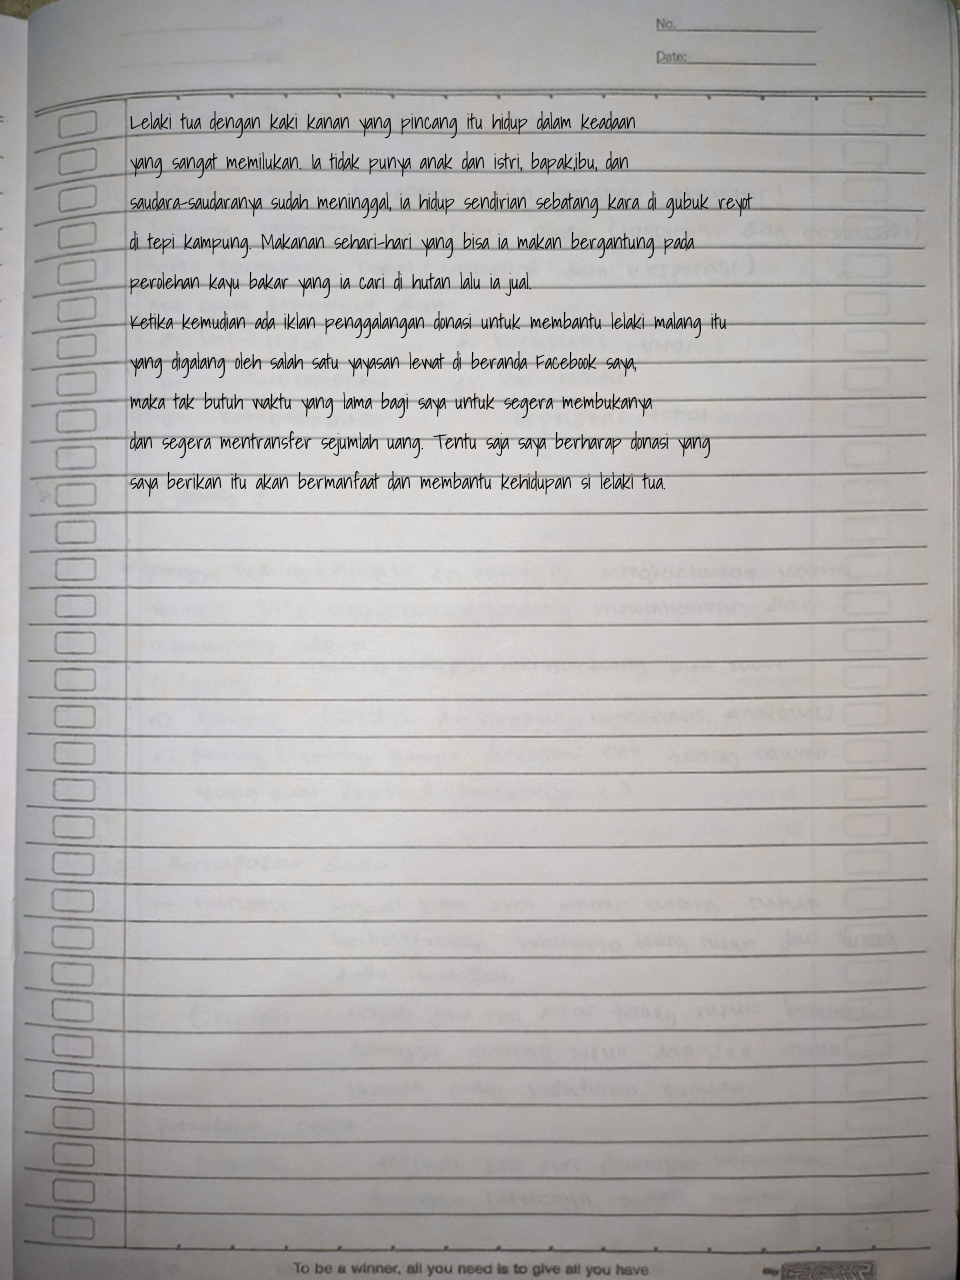
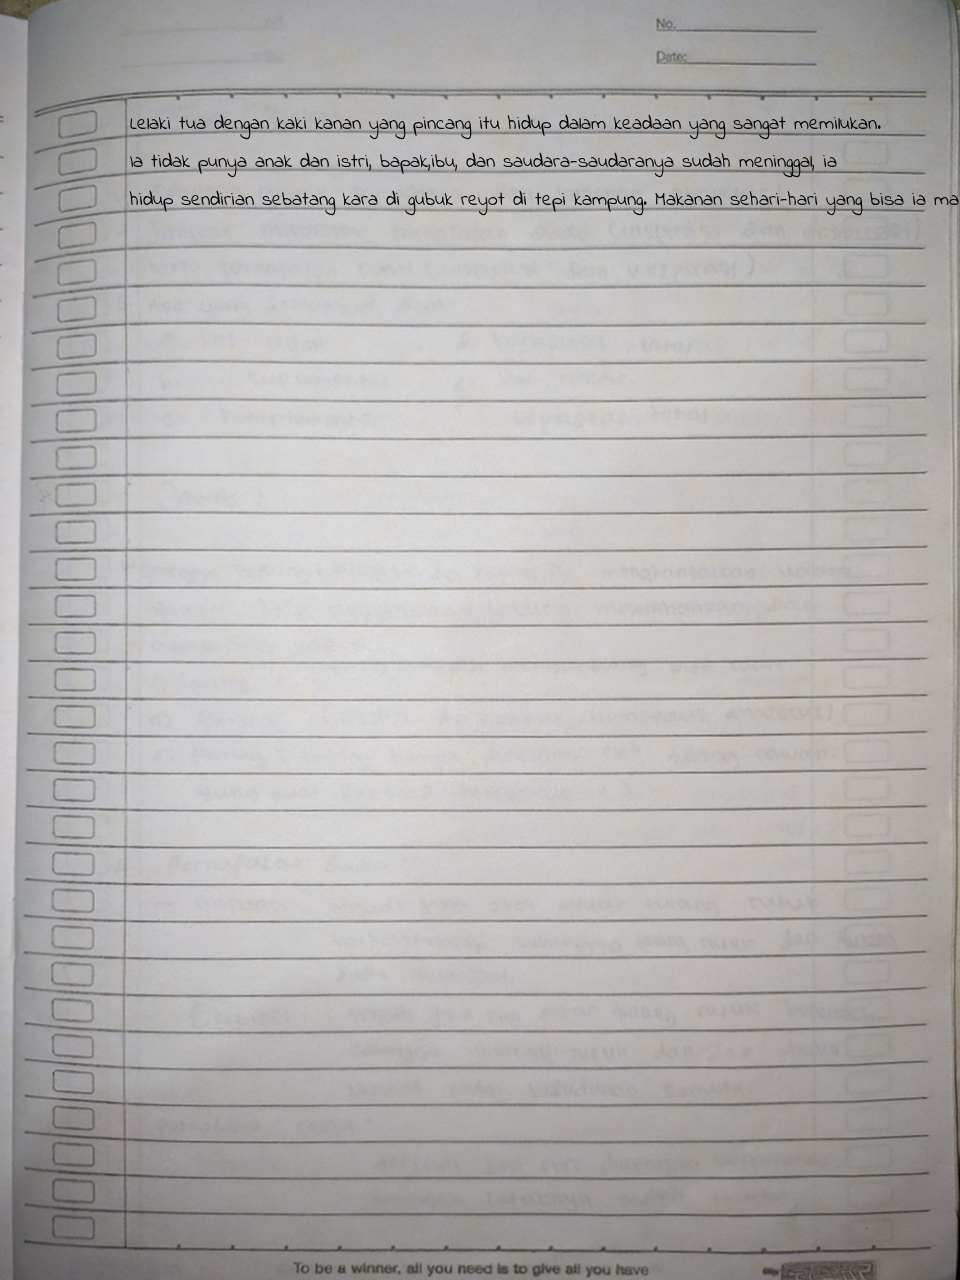
fixing bugg

Changed region(s): [[0.125, 0.0938, 0.8438, 0.4062], [0.6562, 0.25, 0.75, 0.2812], [0.8438, 0.0938, 0.9062, 0.125]]

diff --git a/tes.js b/tes.js
@@ -45,16 +45,140 @@ const {exec} = require('child_process');
 // })();
 // return
 
+// SPLIT TEXT
+(async () => {
+  let longMessage = 'Lelaki tua dengan kaki kanan yang pincang itu hidup dalam keadaan yang sangat memilukan. Ia tidak punya anak dan istri, bapak,ibu, dan saudara-saudaranya sudah meninggal, ia hidup sendirian sebatang kara di gubuk reyot di tepi kampung. Makanan sehari-hari yang bisa ia makan bergantung pada perolehan kayu bakar yang ia cari di hutan lalu ia jual. Ketika kemudian ada iklan penggalangan donasi untuk membantu lelaki malang itu yang digalang oleh salah satu yayasan lewat di beranda Facebook saya, maka tak butuh waktu yang lama bagi saya untuk segera membukanya dan segera mentransfer sejumlah uang. Tentu saja saya berharap donasi yang saya berikan itu akan bermanfaat dan membantu kehidupan si lelaki tua.',
+  charLimit = 85,
+  maxSplits = 30,
+  placeholder,
+  indicator,
+  breakPoint,
+  messages = [],
+  n,
+  m,
+  splits,
+  
+  totN = 0,
+  newarrayyy = [],
+  kal = "",
+  baris = 0,
+  diagX = 129;
+
+  const font = ['nulisa']
+  const ran = Math.floor(Math.random() * font.length)
+  // const fixHeight = text
+  const pathbef = './src/gambar/nulisbukusebelumkanan.jpg'
+  const pathres = './public/nulisbukukanan.jpg'
+
+  let arrNew = longMessage.split(" ")
+  for (let index = 0; index < arrNew.length; index++) {
+    totN += arrNew[index].length
+    if(65 < totN){
+      tesP = totN + arrNew[index + 1].length
+      if(tesP > 79){
+
+      }
+      baris++
+      console.log(baris, kal)
+      if(baris == 1){
+        spawn('convert', [
+          pathbef,
+          '-font',
+          `./src/font/${font[ran]}.ttf`,
+          '-size',
+          '960x1280',
+          '-pointsize',
+          '20',
+          '-annotate',
+          `+130+${diagX}`,
+          kal,
+          pathres
+        ])
+        .on('error', (e) => console.log(e.message))
+        .on('exit', () => console.log("baris ke " + baris))
+      } else {
+        diagX += 38
+        spawn('convert', [
+          pathres,
+          '-font',
+          `./src/font/${font[ran]}.ttf`,
+          '-size',
+          '960x1280',
+          '-pointsize',
+          '20',
+          '-annotate',
+          `+130+${diagX}`,
+          kal,
+          pathres
+        ])
+        .on('error', (e) => console.log(e.message))
+        .on('exit', () => console.log("baris ke " + baris))
+      }
+      totN = 0
+      kal = arrNew[index] + " "
+      await new Promise(r => setTimeout(r, 500));
+    } else {
+      kal += arrNew[index] + " "
+    }
+  }
+  console.log(++baris, kal)
+  spawn('convert', [
+    pathres,
+    '-font',
+    `./src/font/${font[ran]}.ttf`,
+    '-size',
+    '960x1280',
+    '-pointsize',
+    '20',
+    '-annotate',
+    `+130+${diagX += 38}`,
+    kal,
+    pathres
+  ])
+  .on('error', (e) => console.log(e.message))
+  .on('exit', () => console.log("baris ke " + baris))
+})()
+
+
+
+// var totalLength = longMessage.length + (9 * 5);
+
+// if (totalLength <= (charLimit * 9)) {
+//     placeholder = '\v';
+// }
+// else {
+//     placeholder = '\v\v';
+// }
+
+// for (n = 0, m = 0; n < longMessage.length / charLimit && n < maxSplits; n++) {
+//     m = n * charLimit;
+//     indicator = '\n';
+//     breakPoint = m + charLimit - indicator.length;
+//     longMessage = longMessage.substring(0, breakPoint) + indicator + longMessage.substring(breakPoint);
+// }
+
+// longMessage = longMessage.replace(/\v+/g, n);
+
+// splits = n;
+
+// for (n = 0; n < splits; n++) {
+//     m = n * charLimit;
+//     messages.push(longMessage.substring(m, m + charLimit));
+// }
+
+// // spit out each message
+//     console.log(messages)
+
 // NULIS
-const { nulis } = require("./lib/nulis")
+// const { nulis } = require("./lib/nulis")
 
-const mes = "-no 43 -kls XI IPA 2 -t Lelaki tua dengan kaki kanan yang pincang itu hidup dalam keadaan yang sangat memilukan. Ia tidak punya anak dan istri, bapak,ibu, dan saudara-saudaranya sudah meninggal, ia hidup sendirian sebatang kara di gubuk reyot di tepi kampung. Makanan sehari-hari yang bisa ia makan bergantung pada perolehan kayu bakar yang ia cari di hutan lalu ia jual. Ketika kemudian ada iklan penggalangan donasi untuk membantu lelaki malang itu yang digalang oleh salah satu yayasan lewat di beranda Facebook saya, maka tak butuh waktu yang lama bagi saya untuk segera membukanya dan segera mentransfer sejumlah uang. Tentu saja saya berharap donasi yang saya berikan itu akan bermanfaat dan membantu kehidupan si lelaki tua."
+// const mes = "-no 43 -kls XI IPA 2 -t Lelaki tua dengan kaki kanan yang pincang itu hidup dalam keadaan yang sangat memilukan. Ia tidak punya anak dan istri, bapak,ibu, dan saudara-saudaranya sudah meninggal, ia hidup sendirian sebatang kara di gubuk reyot di tepi kampung. Makanan sehari-hari yang bisa ia makan bergantung pada perolehan kayu bakar yang ia cari di hutan lalu ia jual. Ketika kemudian ada iklan penggalangan donasi untuk membantu lelaki malang itu yang digalang oleh salah satu yayasan lewat di beranda Facebook saya, maka tak butuh waktu yang lama bagi saya untuk segera membukanya dan segera mentransfer sejumlah uang. Tentu saja saya berharap donasi yang saya berikan itu akan bermanfaat dan membantu kehidupan si lelaki tua."
 
-const args = mes.split(" ")
+// const args = mes.split(" ")
 
-nulis(args).then(async(res) => {
- console.log(res)
-}).catch((e) => console.log(e))
+// nulis(args).then(async(res) => {
+//  console.log(res)
+// }).catch((e) => console.log(e))
 
 // let nama = "", namasa = false, kelas = "", kelasa = false, no = "", nosa = false,  txt = "", textsa = false
 // // CEK NAMA

diff --git a/lib/nulis.js b/lib/nulis.js
@@ -123,11 +123,16 @@ module.exports.nulis = (args, jenis = "bukukanan") => {
 
 const bukukanan = async(text, nama = null, no = null, kelas = null) => {
   return new Promise((resolve, reject) => {
+    const font = ['nulisa']
     const ran = Math.floor(Math.random() * font.length)
     const splitText = text.replace(/(\S+\s*){1,11}/g, '$&\n')
     const fixHeight = splitText.split('\n').slice(0, 30).join('\n')
+    // const fixHeight = text
     const pathbef = './src/gambar/nulisbukusebelumkanan.jpg'
     const pathres = './public/nulisbukukanan.jpg'
+
+    // console.log(text)
+    // return
 
     let hit = 0, a, b, c
 
